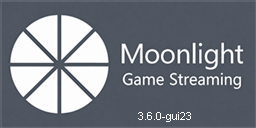
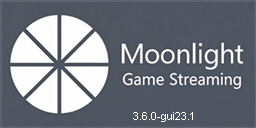
gui: prepare GUI23.1 diagnostics release

Changed region(s): [[0.5, 0.875, 0.7812, 0.9688]]

diff --git a/src/n3ds_main.cpp b/src/n3ds_main.cpp
@@ -1653,10 +1653,11 @@ static bool build_upload_json(const DIAG_SESSION &session, const char *outcome,
                     strcmp(outcome, "host_init_failed") == 0 ||
                     strcmp(outcome, "pair_action") == 0 || strcmp(outcome, "quit_stream") == 0)
             ? outcome : "manual_current_host";
-    body = "{\"version\":1,\"scope\":\"host\","
+    body = "{\"version\":1"
+        ",\"scope\":\"host\""
         ",\"upload_id\":" + json_quote(upload_id) +
         ",\"session_id\":" + json_quote(normalized_id) +
-        ",\"parent_id\":\"\","
+        ",\"parent_id\":\"\""
         ",\"begin\":" + json_quote(std::to_string(begin_epoch)) +
         ",\"end\":" + json_quote(std::to_string(end_epoch)) +
         ",\"build\":" + json_quote(DIAG_BUILD_VERSION) +
@@ -1664,6 +1665,31 @@ static bool build_upload_json(const DIAG_SESSION &session, const char *outcome,
         ",\"truncated\":" + (truncated ? "true" : "false") +
         ",\"content\":" + json_quote(content) + "}";
     return body.size() <= 256 * 1024;
+}
+
+static void log_upload_attempt(unsigned int attempt, int result,
+                               PHTTP_DATA response) {
+    char response_summary[80] = "none";
+    if (response != NULL && response->memory != NULL && response->size > 0) {
+        size_t written = 0;
+        for (size_t i = 0; i < response->size &&
+                           written + 1 < sizeof(response_summary); ++i) {
+            const unsigned char c =
+                static_cast<unsigned char>(response->memory[i]);
+            if ((c >= 'a' && c <= 'z') || (c >= 'A' && c <= 'Z') ||
+                (c >= '0' && c <= '9') || c == '-' || c == '_' || c == '.') {
+                response_summary[written++] = static_cast<char>(c);
+            } else {
+                response_summary[written++] = '_';
+            }
+        }
+        response_summary[written] = '\0';
+    }
+    diag_log("DIAG_UPLOAD_ATTEMPT",
+             "attempt=%u result=%d http_status=%ld response_bytes=%lu response=%s",
+             attempt, result, response ? response->response_code : 0,
+             response ? static_cast<unsigned long>(response->size) : 0UL,
+             response_summary);
 }
 
 static bool upload_session(PSERVER_DATA server, const DIAG_SESSION &session,
@@ -1679,8 +1705,12 @@ static bool upload_session(PSERVER_DATA server, const DIAG_SESSION &session,
     if (response == NULL) return false;
     http_set_timeout_s(5);
     int result = gs_request_pinned(server, url, response, body.c_str(), body.size());
-    if (result != GS_OK)
+    log_upload_attempt(1, result, response);
+    if (result != GS_OK &&
+        (response->response_code == 0 || response->response_code >= 500)) {
         result = gs_request_pinned(server, url, response, body.c_str(), body.size());
+        log_upload_attempt(2, result, response);
+    }
     http_set_timeout_s(60);
     http_free_data(response);
     return result == GS_OK;
@@ -1698,7 +1728,7 @@ static void finish_session(PSERVER_DATA server, const char *outcome,
                      sent ? "Sunshine acknowledged this session's diagnostics."
                           : "The session log remains saved on the SD card.",
                      sent ? "The local copy is still available in Check Logs."
-                          : "Check pairing, the saved host pin, and host reachability.");
+                          : "See DIAG_UPLOAD_ATTEMPT in Check Logs.");
 }
 
 static void send_current_session(PSERVER_DATA server) {
@@ -1722,7 +1752,7 @@ static void send_current_session(PSERVER_DATA server) {
                      sent ? "Sunshine acknowledged this session's diagnostics."
                           : "The session log remains saved on the SD card.",
                      sent ? "The local copy is still available in Check Logs."
-                          : "Check pairing, the saved host pin, and host reachability.");
+                          : "See DIAG_UPLOAD_ATTEMPT in Check Logs.");
 }
 
 static void toggle_automatic_upload(PSERVER_DATA server) {

diff --git a/src/video/renderer/N3dsRendererBase.cpp b/src/video/renderer/N3dsRendererBase.cpp
@@ -136,6 +136,28 @@ void N3dsRendererBase::write_px_to_framebuffer_gpu(uint8_t *__restrict source) {
         return;
     }
 
+    const N3ds3DSettings settings = n3ds_3d_settings_snapshot();
+    const int slider_milli =
+        static_cast<int>(osGet3DSliderState() * 1000.0f + 0.5f);
+    const bool gfx_3d_enabled = gfxIs3D();
+    const bool stereo = screen == GFX_TOP && gfx_3d_enabled &&
+                        settings.mode != N3ds3DMode::OFF_2D;
+    const int eye_pass_count = stereo ? 2 : 1;
+    const N3ds3DSettings mono_settings{N3ds3DMode::OFF_2D, settings.aspect, 0};
+    const u32 presentation_frame =
+        screen == GFX_TOP ? ++presentation_frame_counter : 0;
+    const bool trace_presentation_frame =
+        presentation_frame == 1 || (presentation_frame != 0 &&
+                                    presentation_frame % 120 == 0);
+    if (trace_presentation_frame) {
+        diag_log("PRESENTATION_FRAME_BEGIN",
+                 "frame=%u mode=%s aspect=%s shift=%d slider_milli=%d gfx3d=%d stereo=%d eye_passes=%d image=%dx%d",
+                 presentation_frame, n3ds_3d_mode_name(settings.mode),
+                 n3ds_3d_aspect_name(settings.aspect), settings.shift,
+                 slider_milli, gfx_3d_enabled, stereo, eye_pass_count,
+                 image_width, image_height);
+    }
+
     u64 start_ticks = svcGetSystemTick();
 
     // NOTE: At 800x480, we can display the _width_ natively, but the height
@@ -159,11 +181,6 @@ void N3dsRendererBase::write_px_to_framebuffer_gpu(uint8_t *__restrict source) {
     // Render each eye into its own native-size top-screen framebuffer. A
     // mono frame remains a single pass; stereo mode is active only while the
     // 3DS slider is up and a stereo presentation mode is selected.
-    const N3ds3DSettings settings = n3ds_3d_settings_snapshot();
-    const bool stereo = screen == GFX_TOP && gfxIs3D() &&
-                        settings.mode != N3ds3DMode::OFF_2D;
-    const int eye_pass_count = stereo ? 2 : 1;
-    const N3ds3DSettings mono_settings{N3ds3DMode::OFF_2D, settings.aspect, 0};
     for (int eye = 0; eye < eye_pass_count; ++eye) {
         const N3ds3DEyePresentation eye_presentation =
             n3ds_3d_eye_presentation(stereo ? settings : mono_settings,
@@ -405,6 +422,11 @@ void N3dsRendererBase::write_px_to_framebuffer_gpu(uint8_t *__restrict source) {
     }
 
     gfxScreenSwapBuffers(screen, true);
+    if (trace_presentation_frame) {
+        diag_log("PRESENTATION_FRAME_DONE",
+                 "frame=%u stereo=%d eye_passes=%d",
+                 presentation_frame, stereo, eye_pass_count);
+    }
 }
 
 void n3ds_draw_diag_version_overlay() {

diff --git a/src/input/n3ds_input.cpp b/src/input/n3ds_input.cpp
@@ -389,10 +389,29 @@ void N3dsInput::n3dsinput_handle_event() {
                             }
                         }
                     } else if (page == 3) {
-                        if (slot == 0) n3ds_3d_cycle_mode();
-                        else if (slot == 1) n3ds_3d_cycle_aspect();
-                        else if (slot == 2) n3ds_3d_adjust_shift(-1);
-                        else if (slot == 3) n3ds_3d_adjust_shift(1);
+                        const char *control = "unknown";
+                        if (slot == 0) {
+                            control = "mode";
+                            n3ds_3d_cycle_mode();
+                        } else if (slot == 1) {
+                            control = "aspect";
+                            n3ds_3d_cycle_aspect();
+                        } else if (slot == 2) {
+                            control = "shift_minus";
+                            n3ds_3d_adjust_shift(-1);
+                        } else if (slot == 3) {
+                            control = "shift_plus";
+                            n3ds_3d_adjust_shift(1);
+                        }
+                        const N3ds3DSettings settings =
+                            n3ds_3d_settings_snapshot();
+                        const int slider_milli = static_cast<int>(
+                            osGet3DSliderState() * 1000.0f + 0.5f);
+                        diag_log("PRESENTATION_CONTROL",
+                                 "control=%s mode=%s aspect=%s shift=%d slider_milli=%d gfx3d=%d",
+                                 control, n3ds_3d_mode_name(settings.mode),
+                                 n3ds_3d_aspect_name(settings.aspect),
+                                 settings.shift, slider_milli, gfxIs3D());
                     }
                     if (!(page == 2 && slot == 3))
                         panel_quit_armed.store(false);

diff --git a/src/diagnostics.c b/src/diagnostics.c
@@ -757,6 +757,7 @@ void diag_http_summary_flush(int result, bool cancelled) {
 
 void diag_http_begin(const char *method, const char *safe_url) {
     bool deferred;
+    char breadcrumb[64];
     size_t used;
     LightLock_Lock(&diag_lock);
     diag_http_active = true;
@@ -780,7 +781,9 @@ void diag_http_begin(const char *method, const char *safe_url) {
             diag_http_dropped++;
         }
     }
-    diag_http_breadcrumb_locked("HTTP_BEGIN method=GET details=bounded");
+    snprintf(breadcrumb, sizeof(breadcrumb),
+             "HTTP_BEGIN method=%s details=bounded", method ? method : "?");
+    diag_http_breadcrumb_locked(breadcrumb);
     LightLock_Unlock(&diag_lock);
     if (!deferred) {
         diag_log("HTTP_REQUEST", "method=%s url=%s", method ? method : "?",
@@ -790,8 +793,11 @@ void diag_http_begin(const char *method, const char *safe_url) {
 
 void diag_http_end(long status_code, int transport_result) {
     bool deferred;
+    char method[16];
     LightLock_Lock(&diag_lock);
     deferred = diag_http_deferred;
+    snprintf(method, sizeof(method), "%s",
+             diag_http_method[0] != '\0' ? diag_http_method : "?");
     if (deferred && diag_http_fact_count > 0 && diag_http_dropped == 0) {
         DiagHttpFact *fact = &diag_http_facts[diag_http_fact_count - 1];
         fact->status = status_code;
@@ -804,8 +810,8 @@ void diag_http_end(long status_code, int transport_result) {
     diag_http_breadcrumb_locked("HTTP_END details=bounded");
     LightLock_Unlock(&diag_lock);
     if (!deferred) {
-        diag_log("HTTP_STATUS", "method=GET status=%ld transport_result=%d",
-                 status_code, transport_result);
+        diag_log("HTTP_STATUS", "method=%s status=%ld transport_result=%d",
+                 method, status_code, transport_result);
     }
 }
 

diff --git a/libgamestream/http.c b/libgamestream/http.c
@@ -258,6 +258,7 @@ static bool _reset_response(PHTTP_DATA data) {
         }
     }
     data->size = 0;
+    data->response_code = 0;
     data->memory[0] = '\0';
     return true;
 }
@@ -742,6 +743,7 @@ static int _http_request(char *url, PHTTP_DATA data, const char *pin,
         result = curl_easy_perform(curl);
         curl_easy_getinfo(curl, CURLINFO_RESPONSE_CODE, &response_code);
     }
+    data->response_code = response_code;
 
     if (capture_tls) {
         tls_trace_request_active = false;
@@ -829,6 +831,7 @@ PHTTP_DATA http_create_data() {
         return NULL;
     }
     data->size = 0;
+    data->response_code = 0;
 
     return data;
 }

diff --git a/src/diagnostics.h b/src/diagnostics.h
@@ -11,7 +11,7 @@ extern "C" {
 #endif
 
 #define DIAG_WATCHDOG_LIMIT_MS 30000ULL
-#define DIAG_BUILD_VERSION "3.6.0-gui23"
+#define DIAG_BUILD_VERSION "3.6.0-gui23.1"
 #define DIAG_MAIN_STACK_REQUESTED_SIZE 0x40000U
 /* app.rsf SystemControlInfo.StackSize */
 #define DIAG_LOG_LINE_MAX 512

diff --git a/src/video/renderer/N3dsRenderer.hpp b/src/video/renderer/N3dsRenderer.hpp
@@ -67,6 +67,7 @@ class N3dsRendererBase {
     int surface_height;
     int image_width;
     int image_height;
+    u32 presentation_frame_counter = 0;
     int px_size;
     bool debug;
     u32 *cmdlist = NULL;

diff --git a/libgamestream/http.h b/libgamestream/http.h
@@ -31,6 +31,7 @@ extern "C" {
 typedef struct _HTTP_DATA {
     char *memory;
     size_t size;
+    long response_code;
 } HTTP_DATA, *PHTTP_DATA;
 
 int http_init(const char *keyDirectory, int logLevel);

diff --git a/GUI23.1_HUMAN_TESTING.md b/GUI23.1_HUMAN_TESTING.md
@@ -1,0 +1,37 @@
+# GUI23.1 physical 3DS test
+
+Status: release build complete; physical console acceptance is pending.
+
+## Artifact identity
+
+- Version: `3.6.0-gui23.1`
+- App: Moonlight GamePad
[2 lines of base64/hex data omitted]
+- Title ID: `0x00040000004D1100` (same Moonlight GamePad title as GUI23; CIA install replaces it)
+- Home Menu banner: `3.6.0-gui23.1`, stamped below the Moonlight wordmark using the existing banner template.
+- Source branch: `feature/gui23.1-diagnostics`
+
+GUI23.1 corrects the malformed diagnostic-upload metadata and adds input/renderer telemetry for the reported 3D presentation problem. It does not claim the top-screen stereo presentation is fixed; that behavior remains part of this human test.
+
+## Presentation check
+
+1. Start a live stream and open the 3D presentation page.
+2. Raise the physical 3D slider and cycle Mode until the panel reads HSBS.
+3. Check whether the top image changes and whether the two eyes show the expected left/right halves. Record the exact mode, slider position, aspect, and shift.
+4. Cycle Aspect and Shift while the stream is moving. Note whether the top image updates and whether both screens remain responsive.
+5. If either screen freezes, record whether touch/buttons still respond and whether the stream can be exited through the panel.
+
+## Upload check
+
+1. End the stream normally and observe the upload result.
+2. In `SD:/3ds/moonlight/moonlight.log`, look for `DIAG_UPLOAD_ATTEMPT` with HTTP status and bounded server-response summary. In the session file, check the final `DIAG_UPLOAD` state.
+3. Success is HTTP 200 with `response=saved`, `DIAG_UPLOAD state=accepted`, and a Sunshine `Saved paired client diagnostics` receipt.
+4. If upload fails, attach `SD:/3ds/moonlight/sessions/session-<id>.log` and `SD:/3ds/moonlight/moonlight.log`. The logs remain on SD even when transfer fails.
+
+## Human results
+
+- Presentation: pending
+- Stream freeze / exit behavior: pending
+- Upload status and Sunshine receipt: pending
+- Notes / photos: pending
